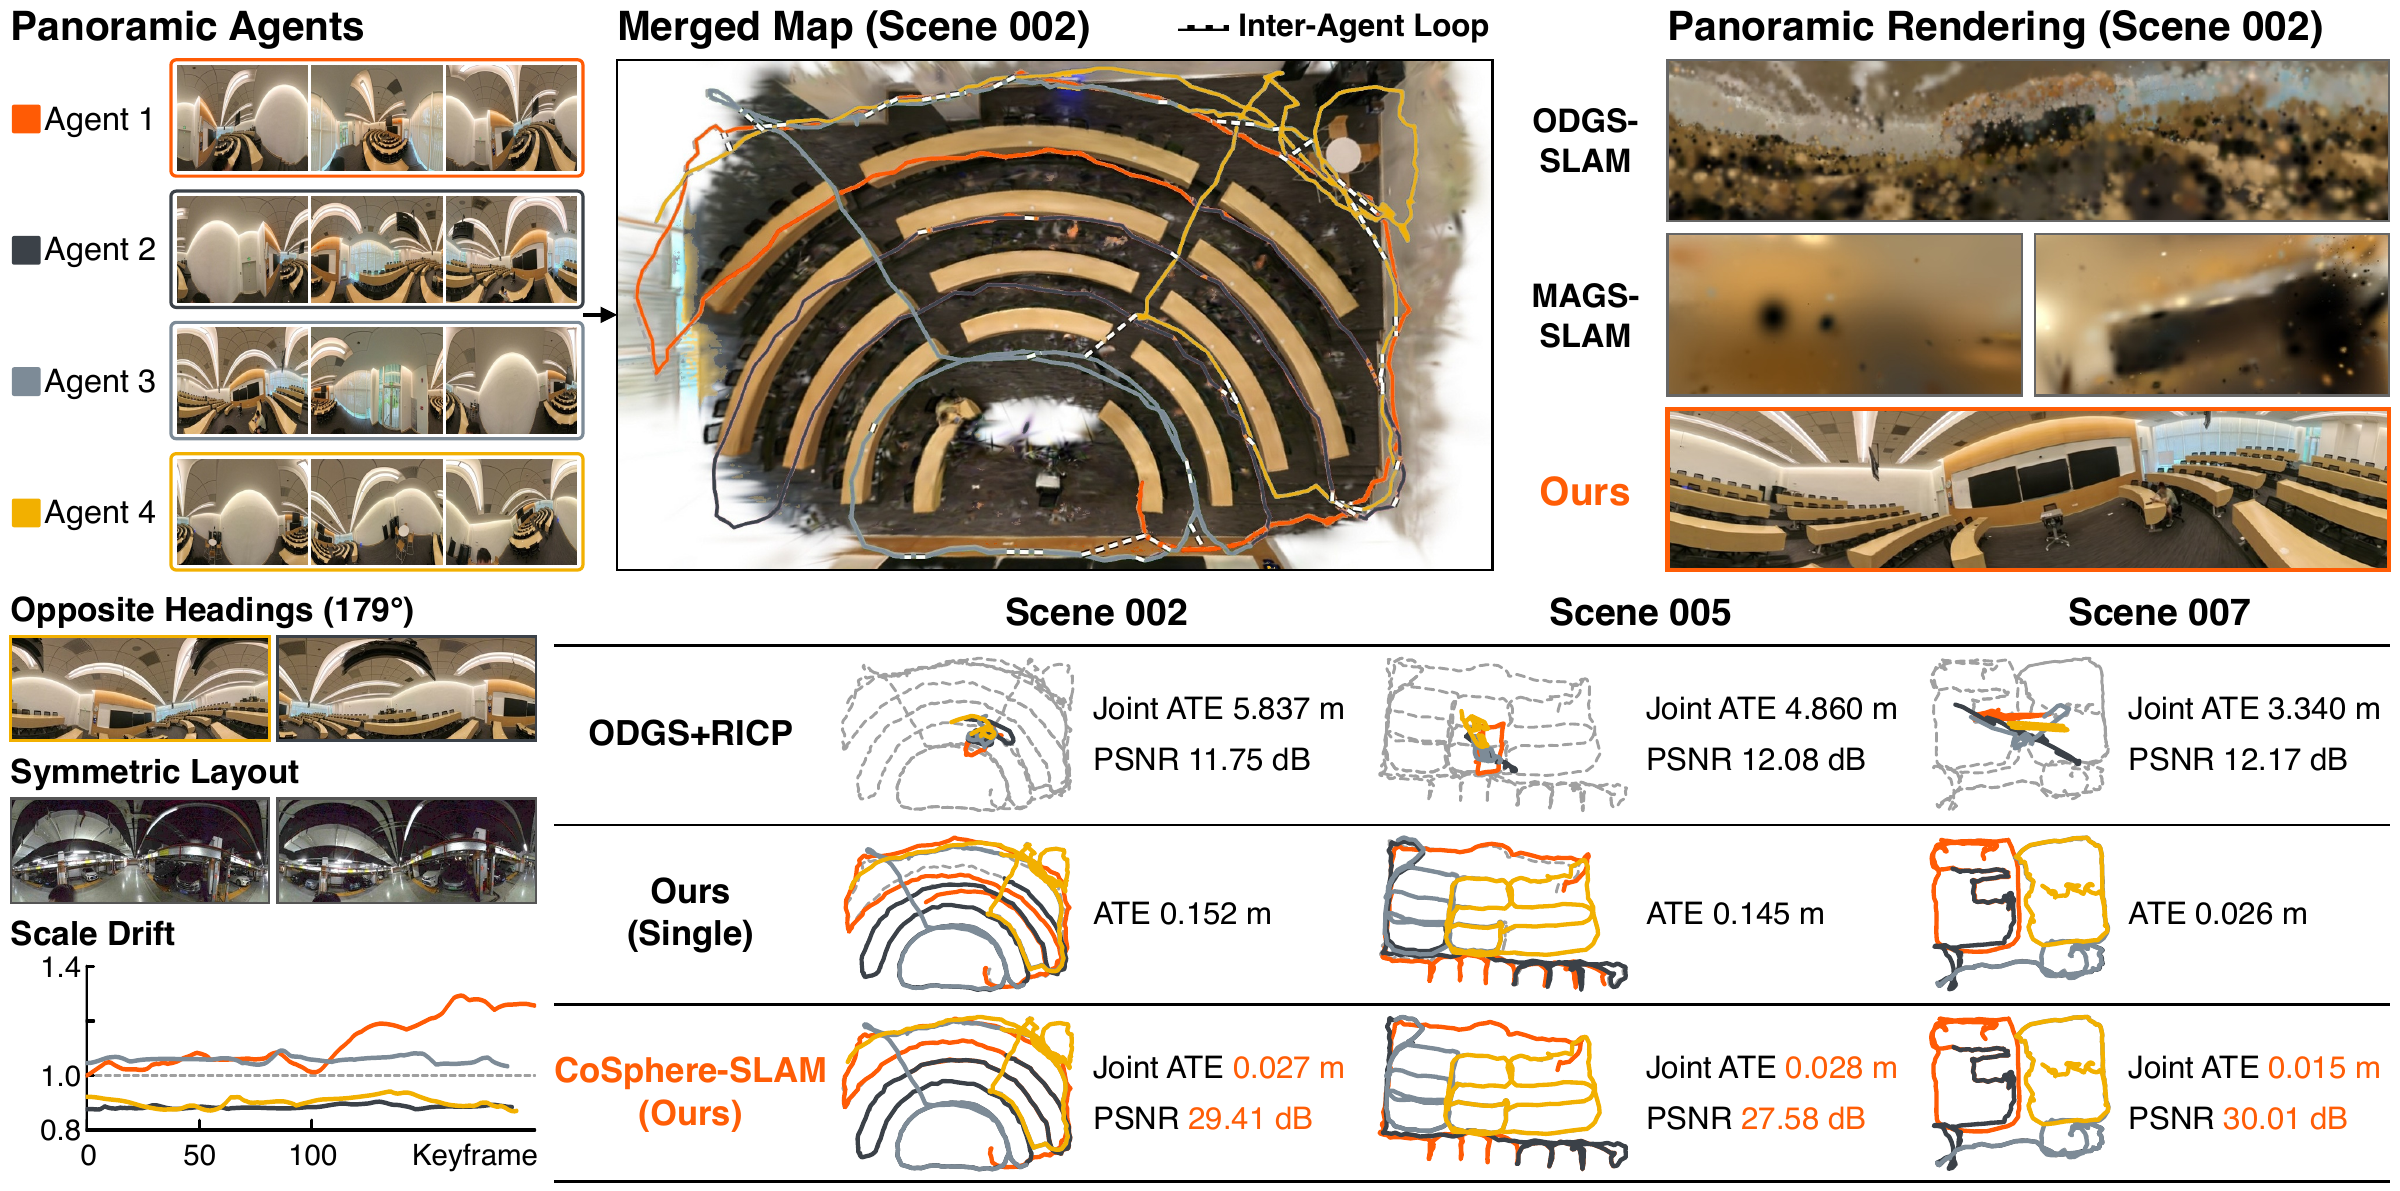
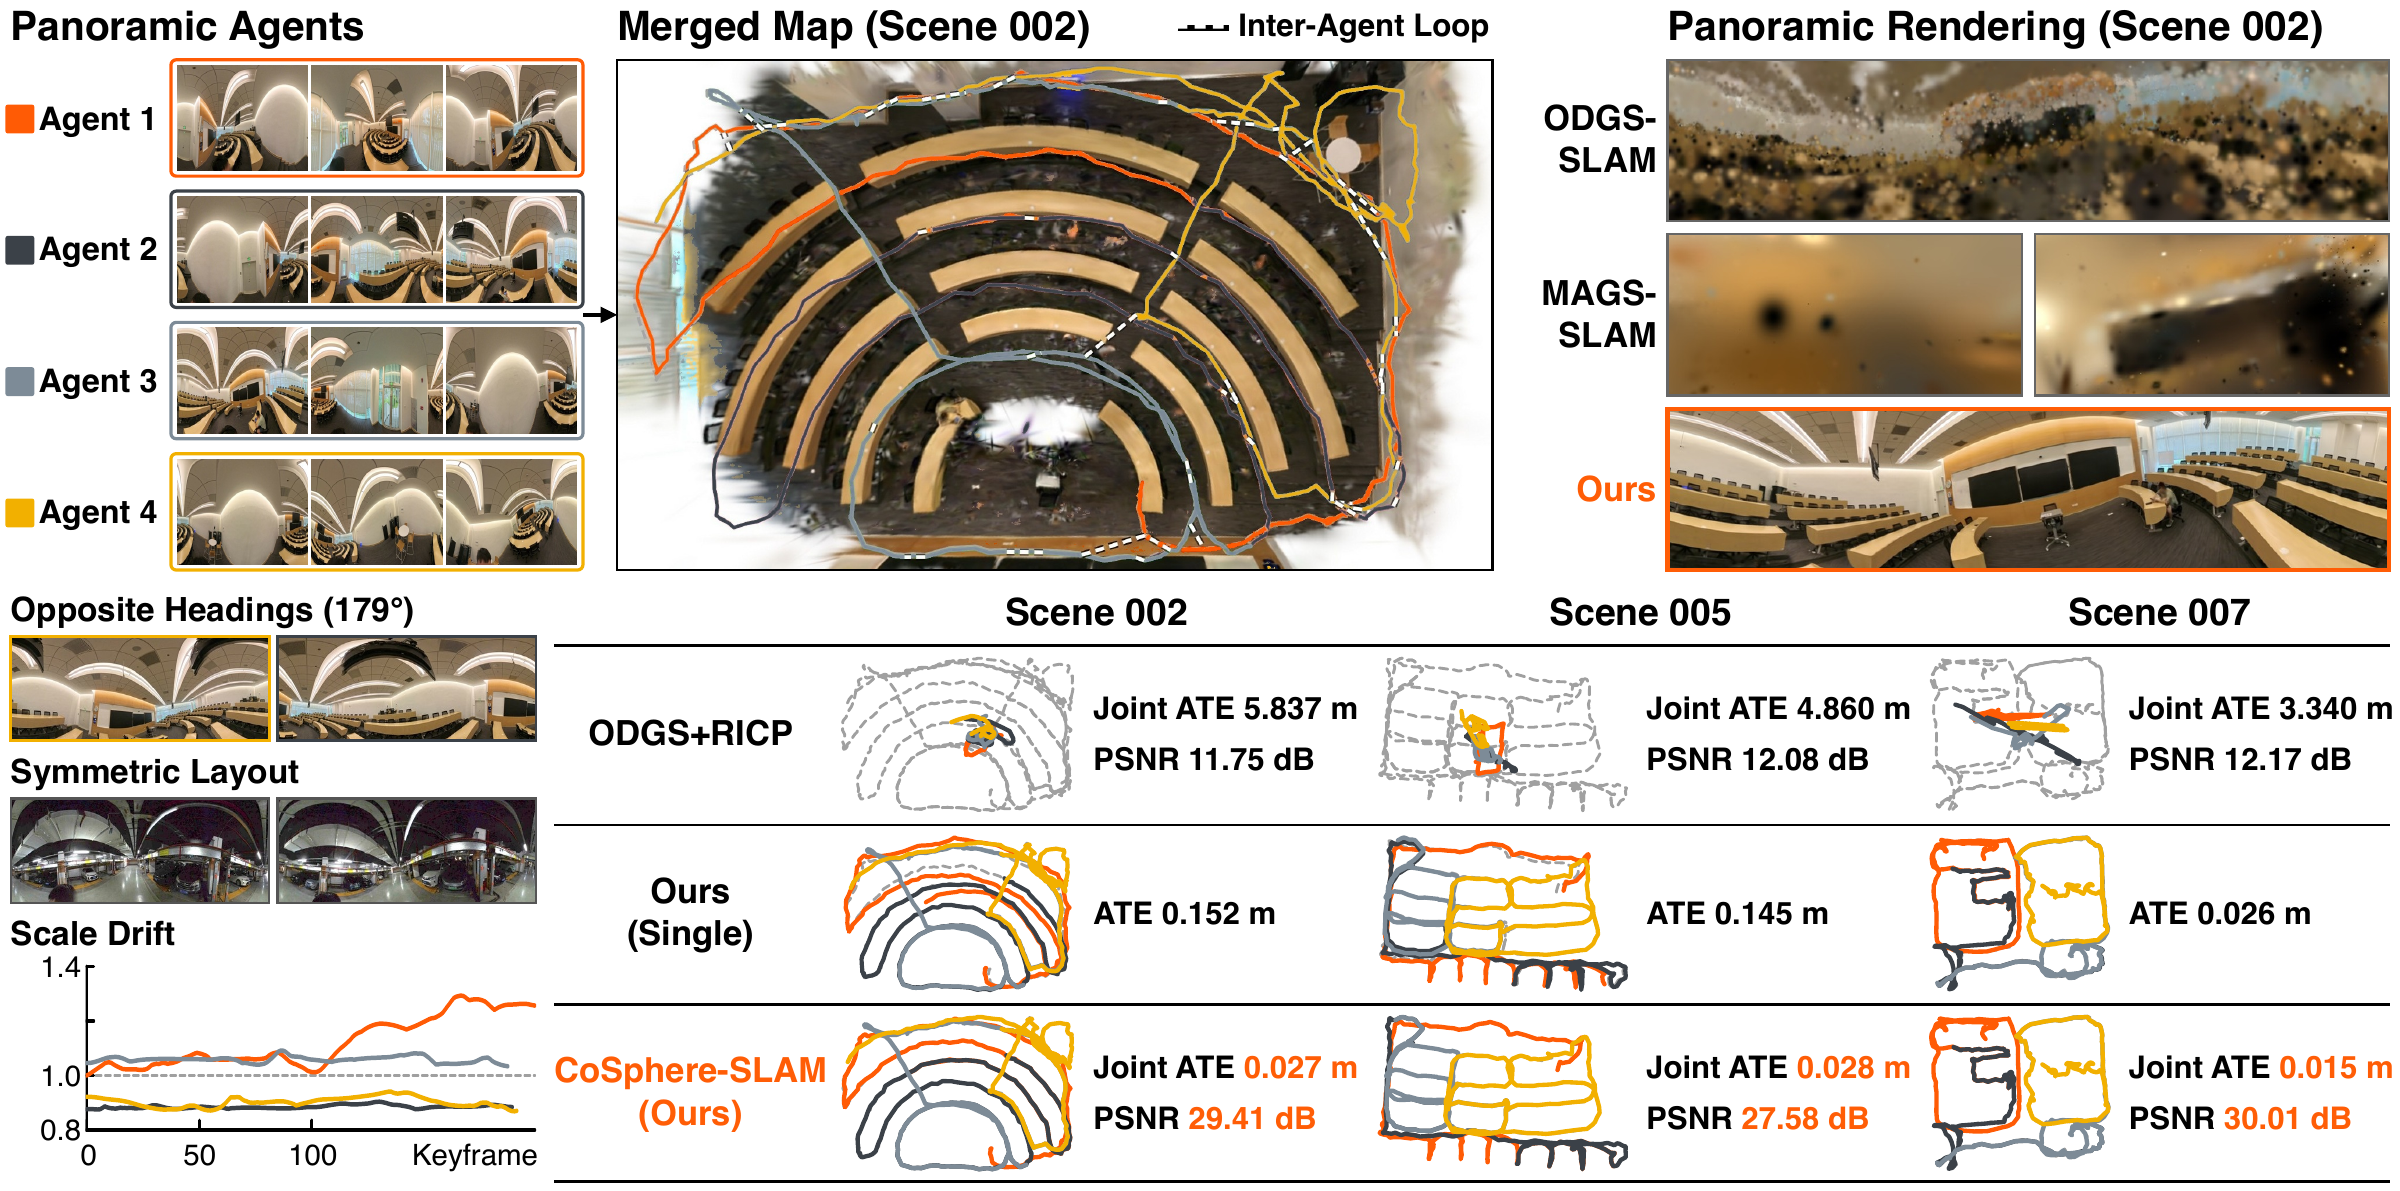
Figure 1 from the latest paper version

diff --git a/index.html b/index.html
@@ -368,7 +368,7 @@ table.dense th,table.dense td{padding:.52rem .4rem}
     </details>
   </div>
   <div class="figure" style="margin-top:1.5rem">
-    <div class="slot pan"><img src="assets/teaser.png?v=1117r" alt="CoSphere-SLAM aligns four panoramic agents into one 3D Gaussian map"></div>
+    <div class="slot pan"><img src="assets/teaser.png?v=1117t" alt="CoSphere-SLAM aligns four panoramic agents into one 3D Gaussian map"></div>
   </div>
   <p class="pan-hint">Swipe horizontally to inspect details</p>
   <p class="figure-caption"><span class="fig-no">Figure 1.</span> Collaborative panoramic Gaussian splatting SLAM with CoSphere-SLAM. Four monocular panoramic agents at top left are aligned into one 3D Gaussian map at top center with 360&deg; rendering at top right on Scene 002. While the bottom left shows a loop closure at opposite headings, a symmetric layout, and scale drift, the bottom right compares trajectories, single-agent ATE or multi-agent joint ATE, and masked front-face PSNR across three development scenes against dashed ground truth, with RICP registering ODGS-SLAM maps via RANSAC and ICP.</p>
